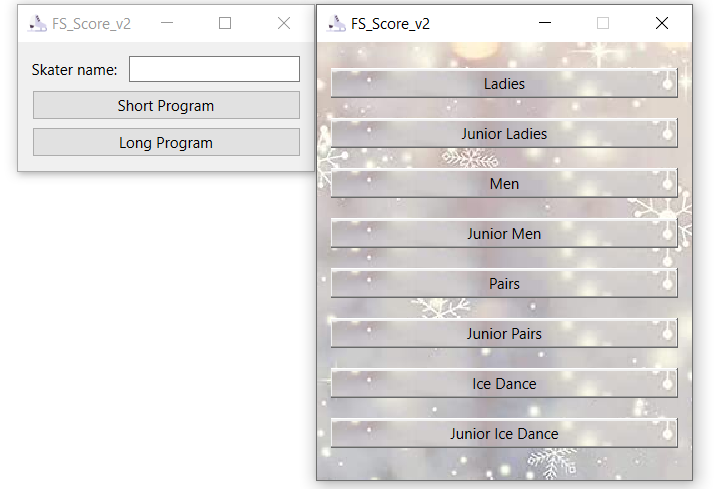
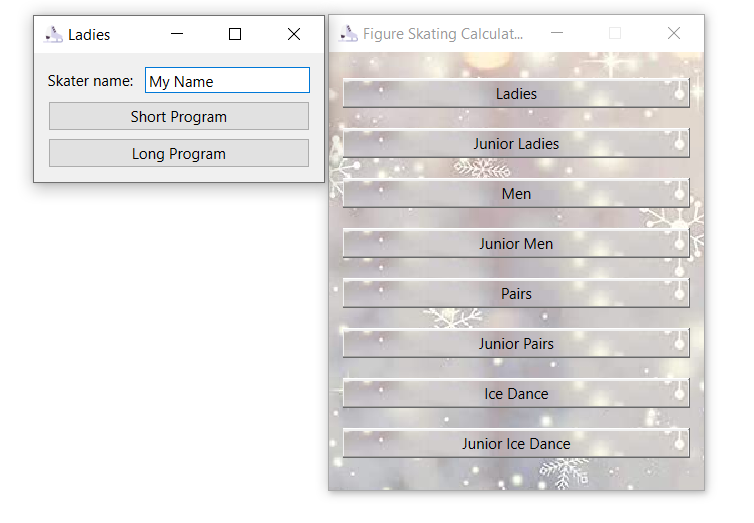
small details

Changed region(s): [[0.0306, 0.0, 0.9805, 1.0]]

diff --git a/Ladies/LadiesSPWindow.cpp b/Ladies/LadiesSPWindow.cpp
@@ -926,6 +926,21 @@ void LadiesSPWindow::clearScore() {
     this->lvls2->setCurrentIndex(0);
     this->lvls3->setCurrentIndex(0);
 
+    this->je1->setCurrentIndex(0);
+    this->je2->setCurrentIndex(0);
+    this->je3->setCurrentIndex(0);
+    this->je4->setCurrentIndex(0);
+
+    this->ju1->setCurrentIndex(0);
+    this->ju2->setCurrentIndex(0);
+    this->ju3->setCurrentIndex(0);
+    this->ju4->setCurrentIndex(0);
+
+    this->jlvl1->setCurrentIndex(0);
+    this->jlvl2->setCurrentIndex(0);
+    this->jlvl3->setCurrentIndex(0);
+    this->jlvl4->setCurrentIndex(0);
+
     for(int i=0;i<7;i++){
         this->SPbaseValueLabels[i]->clear();
         this->SPTotalLabels[i]->clear();

diff --git a/main.cpp b/main.cpp
@@ -23,6 +23,7 @@ int main(int argc, char *argv[])
     gui.setFixedSize(300,350);
 
     gui.setStyleSheet("background-image:url(D:/Personal projects/FS Score v2/Resources/icee.jpg); background-position: center; ");
+    gui.setWindowTitle("Figure Skating Calculator");
     gui.show();
 
 

diff --git a/GUI/mainGUI.cpp b/GUI/mainGUI.cpp
@@ -64,6 +64,7 @@ void mainGUI::openLadiesWindow() {
 
     try {
         this->ladiesWindow = new LadiesFSWindow(this->_service);
+        ladiesWindow->setWindowTitle("Ladies");
         ladiesWindow->show();
     }
     catch (const ElementException &ve) {

diff --git a/Ladies/LadiesFSWindow.cpp b/Ladies/LadiesFSWindow.cpp
@@ -111,6 +111,7 @@ void LadiesFSWindow::openSP() {
     }
     else {
         this->SPWindow = new LadiesSPWindow(skaterName.toStdString(), this->_service);
+        SPWindow->setWindowTitle("Ladies SP");
         SPWindow->show();
     }
 }
